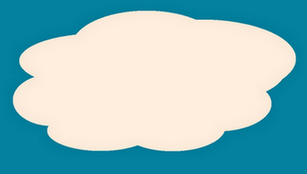
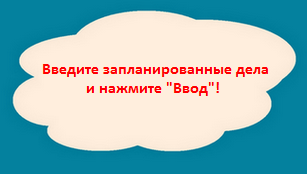
изменил стили картинки облака, теперь текст изначально находится на картинке

Changed region(s): [[0.1173, 0.3736, 0.8795, 0.5747]]

diff --git a/index.html b/index.html
@@ -39,9 +39,8 @@
     </td>
   </tr>
 </table>
-	<div id='img'>
-<img src="cloud.png" alt="альтернативный текст">
-<div> <pre>Введите запланированные дела<br/>     и нажмите "Ввод"!</pre></div>
+<div id='img'>
+  <img src="cloud.png" alt="альтернативный текст">
 </div>
 
 <table align='center' class='filter' >

diff --git a/css/app.css b/css/app.css
@@ -137,19 +137,8 @@
 }
 img {
   position: absolute;
-  top: 73%;
-  left: -3%
+  margin-top: 10%;
 }
-img+div pre {
-  color: red;
-  background: none;
-  font-size: 15px;
-  border: none;
-  position: absolute;
-  top:80.5%;
-  left: -0.4%;
-}
-
 
  /*Класс для выполненных заданий*/
 .done-true {
